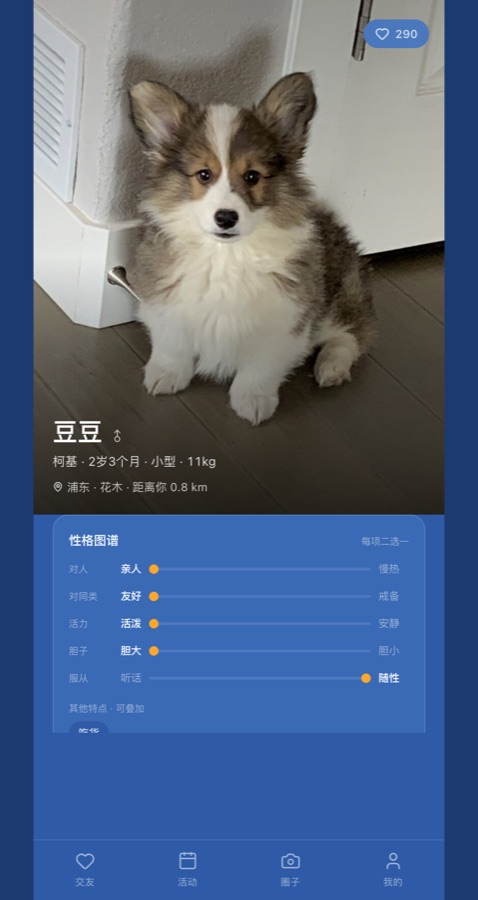
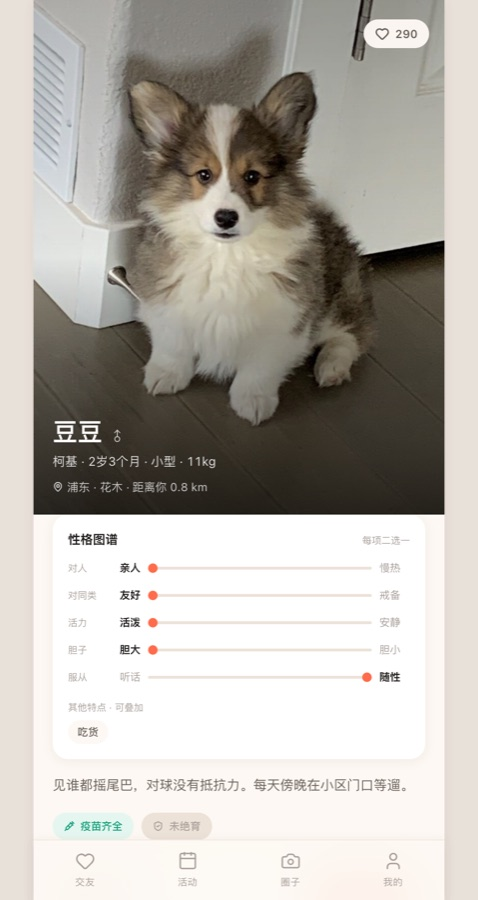
style: 配色回到最初的暖色系；瀑布流按「谁矮往谁那放」排列
- 回到奶油底 #FDF8F3 + 珊瑚橙 #FF6B4A + 薄荷绿，头像恢复柔和彩色
- 网格图片比例从 118% 统一到 125%（4:5），和宠物主页一致
- 两列改成按估算高度分配：每张算 图片(125) + 信息区，
  谁那列矮就放谁那，不再按奇偶分——内容高度不均时更稳

diff --git a/src/lib/data.ts b/src/lib/data.ts
@@ -839,7 +839,7 @@ export const posts: Post[] = [
     topic: "recap",
     authorName: "阿榆",
     petName: "麻薯",
-    tint: "#CFE0FF",
+    tint: "#ffb4a2",
     images: ["/img/dog-6.jpg", "/img/dog-19.jpg"],
     content:
       "今天世纪公园的草坪太适合奔跑了。麻薯和闪电追了四十分钟，回家直接在电梯里睡着。\n\n下次周六还是七点半，来的朋友记得带水。",
@@ -853,7 +853,7 @@ export const posts: Post[] = [
     topic: "daily",
     authorName: "小鹿",
     petName: "豆豆",
-    tint: "#FFE28A",
+    tint: "#ffd6a5",
     images: ["/img/dog-1.jpg"],
     content: "豆豆今天第一次下水，表情从「我不要」变成「再来一次」，中间只用了三秒。",
     meetupId: "m3",
@@ -866,7 +866,7 @@ export const posts: Post[] = [
     topic: "recap",
     authorName: "张阿姨",
     petName: "旺仔",
-    tint: "#D6E4FF",
+    tint: "#b8e0d2",
     images: ["/img/dog-12.jpg"],
     content:
       "慢走团第三周了。旺仔走完全程没有停下来喘，比上个月好太多。\n\n老年犬真的需要同伴，它们互相看着就不会偷懒。",
@@ -880,7 +880,7 @@ export const posts: Post[] = [
     topic: "daily",
     authorName: "Momo",
     petName: "栗子",
-    tint: "#FFE9A8",
+    tint: "#fdffb6",
     images: ["/img/dog-11.jpg"],
     content: "三斤的狗在草坪上对着三十斤的阿拉斯加叫了整整两分钟。它赢了，对方走了。",
     likes: 233,
@@ -892,7 +892,7 @@ export const posts: Post[] = [
     topic: "recap",
     authorName: "小满",
     petName: "布布",
-    tint: "#BBD3FF",
+    tint: "#caffbf",
     images: ["/img/cat-3.jpg"],
     content:
       "布布是猫，但它坚持要参加狗的活动。今天在中山公园的嗅闻游戏里，它找零食的速度比所有狗都快。",
@@ -906,7 +906,7 @@ export const posts: Post[] = [
     topic: "recap",
     authorName: "阿凯",
     petName: "拿铁",
-    tint: "#FFD866",
+    tint: "#9bf6ff",
     images: ["/img/dog-10.jpg", "/img/dog-7.jpg"],
     content:
       "拆家联盟第一次聚会，四条哈士奇在草坪上疯跑，场面一度失控但很快乐。\n\n顺便交流了一下修复沙发的经验，收获很大。",
@@ -920,7 +920,7 @@ export const posts: Post[] = [
     topic: "daily",
     authorName: "小野",
     petName: "雪糕",
-    tint: "#DCE8FF",
+    tint: "#a0c4ff",
     content:
       "带雪糕去看了一场宠物友好市集，全程躲在我怀里，只有看到罐头的时候探出头。\n\n社交这个事真的急不来。",
     images: ["/img/cat-6.jpg"],
@@ -933,7 +933,7 @@ export const posts: Post[] = [
     topic: "recap",
     authorName: "老周",
     petName: "可乐",
-    tint: "#FFDF7A",
+    tint: "#ffadad",
     images: ["/img/dog-3.jpg"],
     content:
       "金毛的社交能力是天赋。今天在泳池边认识了三个新朋友，其中一个还分了他半根火腿肠。\n\n他交朋友比我还快。",
@@ -947,7 +947,7 @@ export const posts: Post[] = [
     topic: "daily",
     authorName: "大鹏",
     petName: "土豆",
-    tint: "#FFE28A",
+    tint: "#ffd6a5",
     images: ["/img/dog-5.jpg"],
     content: "土豆的社交方式是原地躺下，等别人来闻他。有效率。",
     likes: 89,
@@ -959,7 +959,7 @@ export const posts: Post[] = [
     topic: "daily",
     authorName: "阿泽",
     petName: "闪电",
-    tint: "#BBD3FF",
+    tint: "#caffbf",
     images: ["/img/dog-19.jpg"],
     content:
       "给闪电报了个飞盘体验课，教练说他的问题不是不会，是太想赢。\n\n和我一样。",
@@ -972,7 +972,7 @@ export const posts: Post[] = [
     topic: "recap",
     authorName: "阿罗",
     petName: "咪咪",
-    tint: "#C9DCFF",
+    tint: "#bdb2ff",
     images: ["/img/cat-1.jpg"],
     content: "带猫参加狗的活动，被发现后全程被围观。咪咪很配合，一动不动地当了一小时雕塑。",
     meetupId: "m6",
@@ -985,7 +985,7 @@ export const posts: Post[] = [
     topic: "daily",
     authorName: "小北",
     petName: "团子",
-    tint: "#D6E4FF",
+    tint: "#b8e0d2",
     images: ["/img/dog-15.jpg"],
     content:
       "团子以前见到别的狗就躲，今天主动去闻了一只柯基。\n\n对别人来说很小的一步，对我来说等了大半年。",
@@ -998,7 +998,7 @@ export const posts: Post[] = [
     topic: "medical",
     authorName: "小鹿",
     petName: "豆豆",
-    tint: "#FFE28A",
+    tint: "#ffd6a5",
     images: ["/img/dog-1.jpg"],
     content:
       "记一次胰腺炎，给同样养柯基的人提个醒。\n\n上周三豆豆突然不吃东西，趴着不动，摸肚子会躲。我以为是吃撑了，拖了一天。第二天开始吐黄水，去医院查血，淀粉酶和脂肪酶都超标，确诊胰腺炎，直接住院输液三天。\n\n医生问了饮食，问题出在我每周给它加的那顿水煮鸡胸——高蛋白 + 突然加量。柯基这个体型特别容易中招。\n\n现在的规矩：低脂粮，零食只在训练时给，绝不加餐。它现在恢复得挺好，但那一周的住院费够我买半年狗粮了。",
@@ -1012,7 +1012,7 @@ export const posts: Post[] = [
     authorName: "阿梨",
     petName: "雪团",
     images: ["/img/rabbit-1.jpg"],
-    tint: "#FFE9A8",
+    tint: "#fdffb6",
     content:
       "兔子不拉屎超过 12 小时，请立刻去医院，不要等。\n\n兔子的肠胃是停不得的，一旦停止蠕动（胃肠停滞），24 小时内就可能没救。表现是不吃不喝、缩在角落、便便变小或完全没有。\n\n我那次是凌晨发现的，送去急诊打了促胃肠动力针 + 皮下补液，第二天才拉出第一颗。\n\n预防比治疗重要：无限量提摩西草、每天换水、少喂水果。别信「兔子只吃胡萝卜」这种话。",
     likes: 356,
@@ -1024,7 +1024,7 @@ export const posts: Post[] = [
     topic: "care",
     authorName: "小林",
     petName: "大福",
-    tint: "#BBD3FF",
+    tint: "#caffbf",
     images: ["/img/reptile-1.jpg"],
     content:
       "养鬃狮蜥一年，踩过的 5 个坑。\n\n1. 只喂面包虫 —— 脂肪太高，会脂肪肝。主食应该是杜比亚或蟋蟀，虫子要裹钙粉。\n2. 不装 UVB 灯 —— 缺 D3 就不吸收钙，会软骨、站不起来。这个最致命。\n3. 用沙子垫材 —— 幼体误食会肠梗阻，用厨房纸最安全。\n4. 冬天不加温 —— 温度低于 30℃ 就不消化，食物会在胃里烂掉。\n5. 天天上手 —— 它是观赏动物，不是猫，逼着玩只会应激。\n\n现在大福三岁，体检一切正常。爬宠不是「放那儿不管」，是「环境对了它就没事」。",
@@ -1037,7 +1037,7 @@ export const posts: Post[] = [
     topic: "care",
     authorName: "小满",
     petName: "煤球",
-    tint: "#FFD866",
+    tint: "#9bf6ff",
     images: ["/img/exotic-1.jpg"],
     content:
       "很多人不知道：蜜袋鼯不能单独养。\n\n它们是高度社会化的动物，野外都是成群活动的。单独一只会自残——咬自己的尾巴、拔毛、甚至绝食。这不是「心情不好」，是抑郁。\n\n要么养两只以上，要么每天至少花两小时陪它。而且它们晚上活跃，白天基本在睡，和上班族的作息是反的。\n\n所以每次有人问「蜜袋鼯可爱吗好不好养」，我都会先说这三件事：要一对、要夜陪、能活 12 年。",
@@ -1050,7 +1050,7 @@ export const posts: Post[] = [
     topic: "adopt",
     authorName: "老K",
     petName: "桃桃",
-    tint: "#FFDF7A",
+    tint: "#ffadad",
     images: ["/img/bird-2.jpg"],
     content:
       "桃桃是去年在领养日遇到的。前主人搬家，把它连笼子一起放在了小区门口。\n\n刚来的时候它一句话不说，见到手就咬。我用了三个月，每天在笼子边上坐着看手机，让它习惯我的存在。\n\n现在它会吹《小星星》，会在我回家的时候叫两声。\n\n领养不是捡便宜，是接手别人不要的责任。想清楚再养。",
@@ -1063,7 +1063,7 @@ export const posts: Post[] = [
     topic: "daily",
     authorName: "阿豆",
     petName: "刺球",
-    tint: "#D6E4FF",
+    tint: "#b8e0d2",
     images: ["/img/exotic-2.jpg"],
     content:
       "很多人以为刺猬摸起来扎手，其实它的刺是可以放下来的。\n\n刚到家那两周它一碰就炸成一个球，我只能在旁边放件旧 T 恤让它熟悉气味。现在熟了，它会先把刺放平，再把肚子翻给我。\n\n不过还是得戴手套摸——它偶尔会突然想起来自己是只刺猬。",

diff --git a/src/app/globals.css b/src/app/globals.css
@@ -2,27 +2,25 @@
 
 /* ── 设计变量：改这里就能整体换肤 ───────────────────────── */
 @theme {
-  /* ── 深蓝底 + 饱和黄作选中 ───────────────────────────────
-     背景 AMALFI TILE #2E5AA7，选中 CITRUS ZEST #FFA62B
-     ──────────────────────────────────────────────────── */
-  --color-canvas: #2e5aa7; /* AMALFI TILE：画布 */
-  --color-cream: #2e5aa7; /* 旧名兼容 */
-  --color-surface: #3a69b5; /* 卡片：比画布亮一档 */
-  --color-surface-2: #4776c0; /* 卡片里的块 */
-  --color-ink: #f5f8ff; /* 主文字：浅色 */
-  --color-ink-soft: #c9d8f2;
-  --color-ink-mute: #9fb4d8;
-  --color-line: #4d79c0;
-  --color-brand: #ffa62b; /* CITRUS ZEST：选中 / 主行动 */
-  --color-brand-soft: #6b5312; /* 深琥珀软底 */
-  --color-on-brand: #241a00; /* 橙底上的文字 */
-  --color-accent: #ffd98a; /* 深底上的强调文字 */
-  --color-accent-soft: #2b4f92;
-  --color-sea: #86c5ff; /* SEA BREEZE */
-  --color-sea-soft: #2b4f92;
-  --color-sand: #6b5312;
-  --color-mint: #ffd98a;
-  --color-mint-soft: #2b4f92;
+  /* ── 回到最初的暖色系：奶油底 + 珊瑚橙 ───────────────── */
+  --color-canvas: #fdf8f3; /* 页面底色 */
+  --color-cream: #fdf8f3; /* 旧名兼容 */
+  --color-surface: #ffffff; /* 卡片 */
+  --color-surface-2: #fffaf6; /* 卡片里的块 */
+  --color-ink: #1c1917; /* 主文字 */
+  --color-ink-soft: #6b625b;
+  --color-ink-mute: #a9a09a;
+  --color-line: #ece2d8;
+  --color-brand: #ff6b4a; /* 主色：珊瑚橙 */
+  --color-brand-soft: #ffece5;
+  --color-on-brand: #ffffff; /* 橙底上的文字 */
+  --color-accent: #ff6b4a; /* 链接 / 强调，回到珊瑚 */
+  --color-accent-soft: #ffece5;
+  --color-sea: #86c5ff;
+  --color-sea-soft: #eaf4ff;
+  --color-sand: #fff1e8;
+  --color-mint: #0f9d78; /* 辅助色：薄荷绿 */
+  --color-mint-soft: #e4f6ef;
   --color-white: #ffffff;
 
 
@@ -42,8 +40,8 @@
   --text-stat: 21px;
   --text-page: 26px;
 
-  --shadow-soft: 0 1px 0 rgba(255, 255, 255, 0.06);   /* 贴地的小块 */
-  --shadow-card: 0 2px 0 rgba(0, 0, 0, 0.14);  /* 卡片 */
+  --shadow-soft: 0 1px 6px rgba(80, 60, 40, 0.05);   /* 贴地的小块 */
+  --shadow-card: 0 2px 12px rgba(80, 60, 40, 0.07);  /* 卡片 */
   --shadow-float: 0 -8px 40px rgba(0, 0, 0, 0.15);   /* 浮层 */
 
   /* 动效曲线：进场"快起慢收"，退场"慢起快收"，两者不能共用一条 */
@@ -60,7 +58,7 @@
 }
 
 body {
-  background-color: #1c3a70;
+  background-color: #e8e1d9;
   color: var(--color-ink);
   font-family: var(--font-sans);
   -webkit-font-smoothing: antialiased;
@@ -207,11 +205,4 @@ html {
     animation-iteration-count: 1 !important;
     transition-duration: 0.01ms !important;
   }
-}
-
-/* 深蓝底上，卡片和背景明度只差一档，靠一道浅描边把边界"缝"出来
-   （对应色卡里蓝色瓷砖之间的缝） */
-.bg-surface.shadow-card,
-.bg-surface.shadow-soft {
-  border: 1px solid rgba(255, 255, 255, 0.14);
 }

diff --git a/src/app/page.tsx b/src/app/page.tsx
@@ -69,12 +69,29 @@ export default function HomePage() {
     [species, location, filters, recommendations]
   );
 
-  // 网格模式：两列各自独立排（左列 1,3,5…，右列 2,4,6…）
-  // 用 CSS columns 会变成"左列填满再填右列"，滚动顺序是 1,22,2,23…
+  // 网格模式：两列各自独立排列，谁矮往谁那放
+  // （用 CSS columns 会变成"左列填满再填右列"，滚动顺序会串）
   const gridColumns = useMemo(() => {
     const left: typeof list = [];
     const right: typeof list = [];
-    list.forEach((p, i) => (i % 2 === 0 ? left : right).push(p));
+    let leftH = 0;
+    let rightH = 0;
+
+    for (const p of list) {
+      // 估算这一张的高度：图片 125（4:5）+ 信息区
+      // 品种/年龄文字长的时候会多一行，按长度粗略补偿
+      const metaLen = p.breed.length + p.ageText.length + 6;
+      const infoH = metaLen > 16 ? 96 : 80;
+      const h = 125 + infoH;
+
+      if (leftH <= rightH) {
+        left.push(p);
+        leftH += h;
+      } else {
+        right.push(p);
+        rightH += h;
+      }
+    }
     return [left, right];
   }, [list]);
 
@@ -450,7 +467,7 @@ function PetTile({
       className="stagger tap block cursor-pointer overflow-hidden rounded-card bg-surface shadow-card"
       style={{ animationDelay: `${delay}ms` }}
     >
-      <div className="relative w-full" style={{ paddingBottom: "118%" }}>
+      <div className="relative w-full" style={{ paddingBottom: "125%" }}  /* 4:5，和宠物主页统一 */>
         <img
           src={pet.photos[0]}
           alt={pet.name}

diff --git a/src/app/meetups/[id]/page.tsx b/src/app/meetups/[id]/page.tsx
@@ -112,7 +112,7 @@ export default function MeetupDetailPage() {
       <div className="-mt-4 rounded-t-hero bg-canvas px-5 pt-5">
         {/* 主办方 */}
         <div className="flex items-center gap-2.5">
-          <Avatar name={meetup.hostName} tint={meetup.type === "brand" ? "#BBD3FF" : "#FFE28A"} size={38} />
+          <Avatar name={meetup.hostName} tint={meetup.type === "brand" ? "#caffbf" : "#ffd6a5"} size={38} />
           <div className="min-w-0 flex-1">
             <div className="flex items-center gap-1">
               <p className="text-body-lg font-semibold">{meetup.hostName}</p>
@@ -183,14 +183,14 @@ export default function MeetupDetailPage() {
           </div>
           <div className="mt-2.5 flex flex-wrap gap-x-4 gap-y-3 rounded-card bg-surface p-4 shadow-card">
             {isJoined && (
-              <Person name="我" petName={me?.name ?? "我的狗"} tint="#CFE0FF" highlight />
+              <Person name="我" petName={me?.name ?? "我的狗"} tint="#ffb4a2" highlight />
             )}
             {meetup.participants.map((p, i) => (
               <Person
                 key={`${p.name}-${i}`}
                 name={p.name}
                 petName={p.petName}
-                tint={["#FFE28A", "#BBD3FF", "#FFD866", "#C9DCFF", "#FFDF7A", "#D6E4FF"][i % 6]}
+                tint={["#ffd6a5", "#caffbf", "#9bf6ff", "#bdb2ff", "#ffadad", "#b8e0d2"][i % 6]}
               />
             ))}
             {Array.from({ length: Math.max(0, meetup.capacity - people) }).slice(0, 3).map((_, i) => (

diff --git a/src/app/me/edit/page.tsx b/src/app/me/edit/page.tsx
@@ -30,7 +30,7 @@ export default function EditProfilePage() {
 
       <div className="mt-3 px-5">
         <div className="flex flex-col items-center rounded-block bg-surface py-6 shadow-card">
-          <Avatar name={name || "我"} tint="#CFE0FF" size={64} />
+          <Avatar name={name || "我"} tint="#ffb4a2" size={64} />
           <p className="mt-2.5 text-body font-semibold">{name || "未命名"}</p>
           <p className="mt-0.5 text-cap text-ink-mute">
             演示版：头像暂不支持上传

diff --git a/src/app/pets/[id]/page.tsx b/src/app/pets/[id]/page.tsx
@@ -186,7 +186,7 @@ export default function PetDetailPage() {
 
         {/* 主人 */}
         <div className="mt-5 flex items-center gap-2.5 rounded-card bg-surface p-3.5 shadow-card">
-          <Avatar name={pet.ownerName} tint="#FFE28A" size={38} />
+          <Avatar name={pet.ownerName} tint="#ffd6a5" size={38} />
           <div className="flex-1">
             <p className="text-body font-semibold">{pet.ownerName}</p>
             <p className="text-cap text-ink-mute">同城 · 已实名认证</p>

diff --git a/src/app/me/page.tsx b/src/app/me/page.tsx
@@ -44,7 +44,7 @@ export default function MePage() {
 
         {/* 个人信息 */}
         <div className="mx-5 mt-4 flex items-center gap-3 rounded-block bg-surface p-4 shadow-card">
-          <Avatar name={profile.name} tint="#CFE0FF" size={52} />
+          <Avatar name={profile.name} tint="#ffb4a2" size={52} />
           <div className="min-w-0 flex-1">
             <div className="flex items-center gap-1.5">
               <p className="text-title font-semibold">{profile.name}</p>

diff --git a/src/components/avatar.tsx b/src/components/avatar.tsx
@@ -1,6 +1,6 @@
 export default function Avatar({
   name,
-  tint = "#FFE28A",
+  tint = "#ffd6a5",
   size = 36,
 }: {
   name: string;
